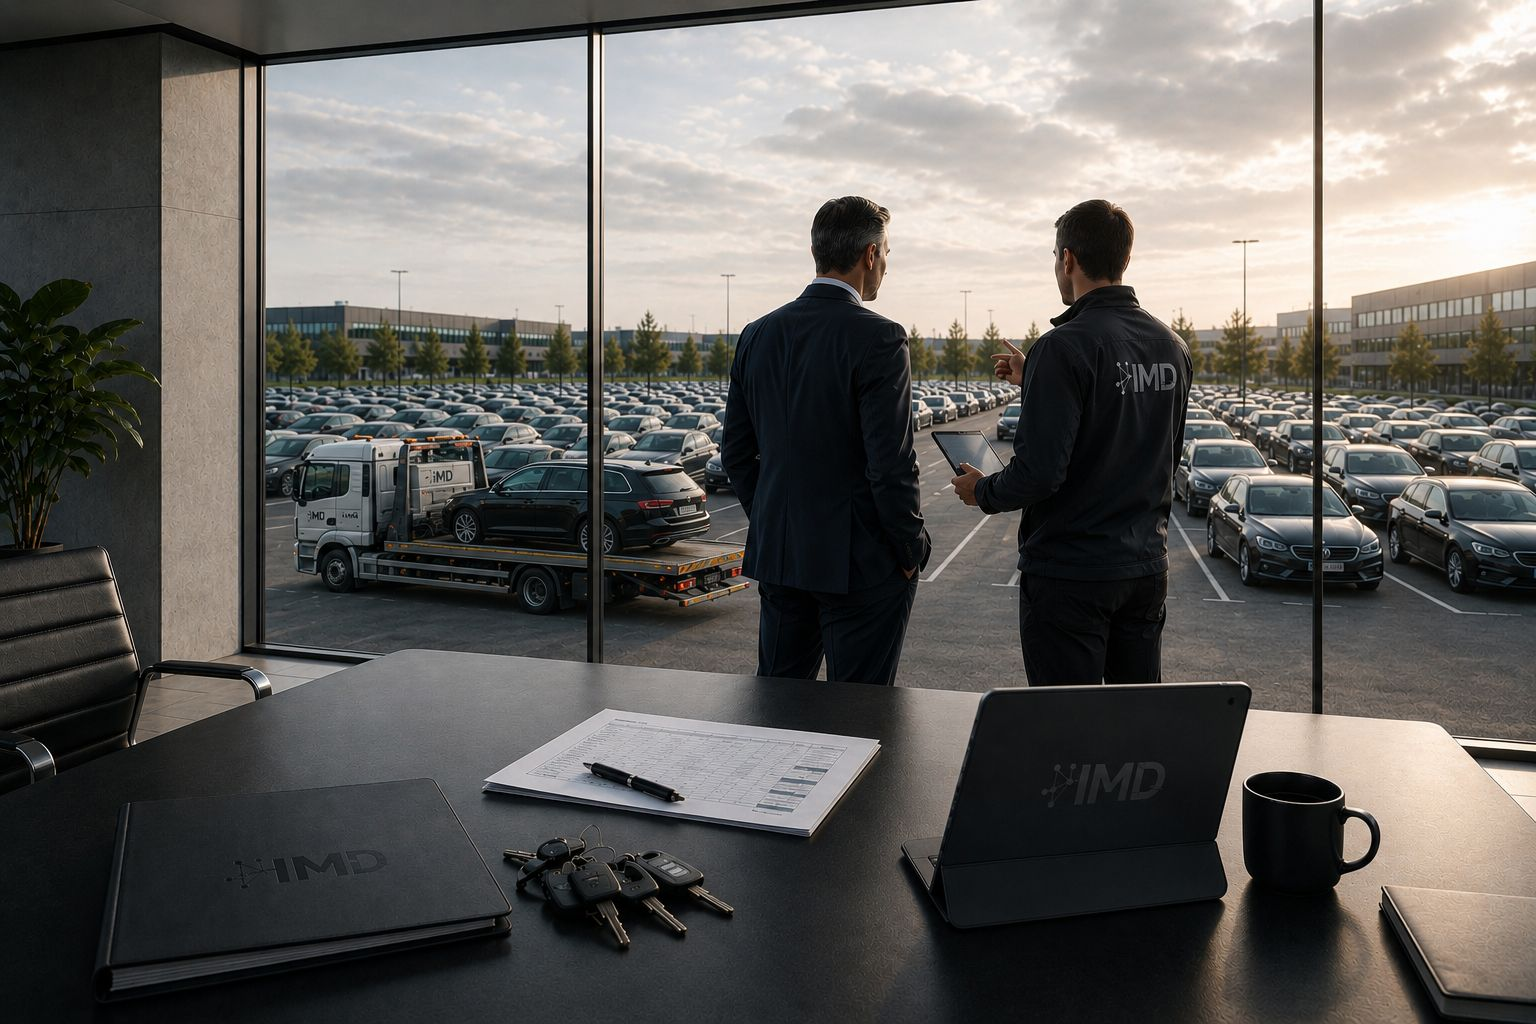
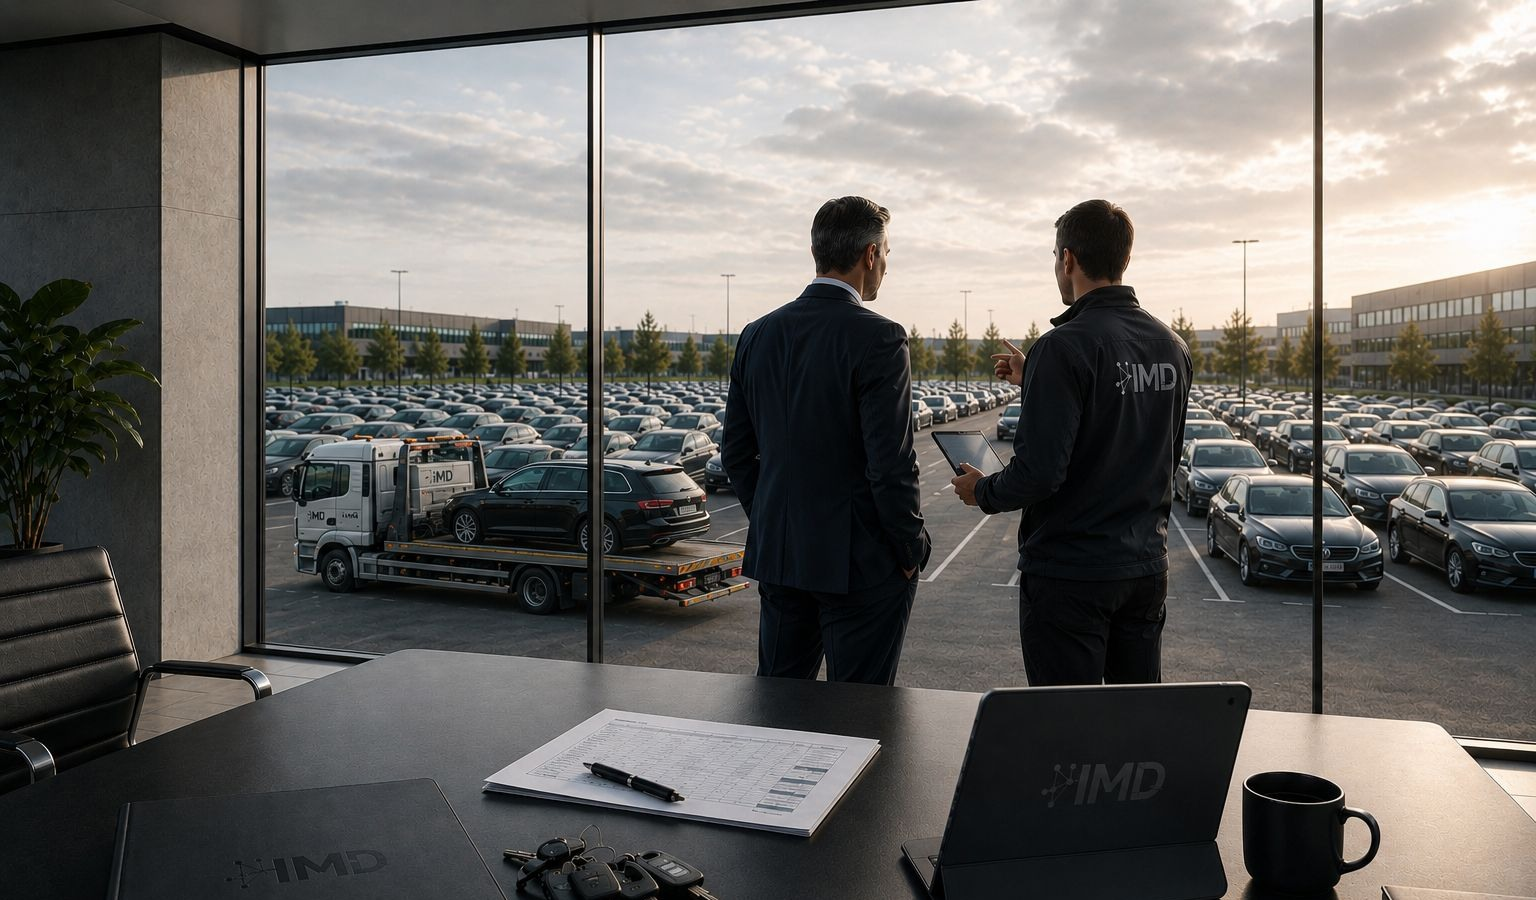
Hero: crop image bottom to 900px, revert height to 100vh — shows full content without scroll

diff --git a/style.css b/style.css
@@ -118,14 +118,14 @@ a{text-decoration:none;color:inherit}
 
 /* ══════════════ HERO ══════════════ */
 .hero{display:flex;flex-direction:column;min-height:100vh}
-.hero-split{position:relative;flex:1;min-height:max(calc(100vh - 72px), 66.67vw)}
+.hero-split{position:relative;flex:1;min-height:calc(100vh - 72px)}
 
 /* Photo fills the full hero-split — static */
-.hero-photo{position:absolute;inset:0;z-index:0;background:url('new_images/new_hero_example.jpeg') center/cover no-repeat}
+.hero-photo{position:absolute;inset:0;z-index:0;background:url('new_images/new_hero_example.jpeg') 50% 10%/cover no-repeat}
 .hero-photo::before{content:none}
 
 /* Left copy panel — gradient overlay, no diagonal line */
-.hero-copy{position:relative;z-index:2;width:58%;min-height:max(calc(100vh - 72px), 66.67vw);background:linear-gradient(to right,rgba(6,10,22,0.88) 0%,rgba(6,10,22,0.72) 50%,rgba(6,10,22,0.30) 78%,transparent 100%);padding:96px 72px 64px;display:flex;flex-direction:column;justify-content:center}
+.hero-copy{position:relative;z-index:2;width:58%;min-height:calc(100vh - 72px);background:linear-gradient(to right,rgba(6,10,22,0.88) 0%,rgba(6,10,22,0.72) 50%,rgba(6,10,22,0.30) 78%,transparent 100%);padding:96px 72px 64px;display:flex;flex-direction:column;justify-content:center}
 
 /* Eyebrow badge — always light on photo */
 .hero-eyebrow{display:inline-flex;align-items:center;gap:8px;margin-bottom:28px;background:rgba(255,255,255,.12);border:1px solid rgba(255,255,255,.22);border-radius:100px;padding:5px 14px;align-self:flex-start}
